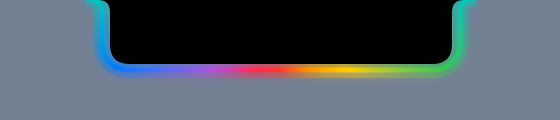
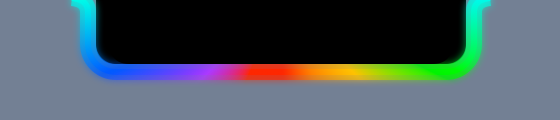
Wrap the ring around the whole notch and add saturation and brightness
The ring's sides sat inside the notch's edges, where the camera housing hid
them, so only the bottom showed. They now run outside the full notch width.
Settings gains Saturation and Brightness sliders; colors are adjusted in
Display P3 so the vivid end goes past plain sRGB.

Changed region(s): [[0.1214, 0.0, 0.8804, 0.7]]

diff --git a/NotchTodo.m b/NotchTodo.m
@@ -49,18 +49,20 @@ static CGPathRef CreateNotchPath(CGRect bounds, CGFloat centerX, CGFloat width, 
     return p;
 }
 
-// The notch outline grown by `gap` on every side, open at the top so it runs into the screen edge.
+// The notch outline grown by `gap` on every side: down the left side, along the bottom and up
+// the right side, with the ends flaring outward into the top edge of the screen. The sides sit
+// outside the notch's full width, since the camera housing covers everything inside it.
 static CGPathRef CreateRingPath(CGRect notch, CGFloat gap) {
     const CGFloat flare = 6, radius = 10 + gap; // close to the physical notch's own corners
     CGFloat top = CGRectGetMaxY(notch), bottom = CGRectGetMinY(notch) - gap;
     CGFloat left = CGRectGetMinX(notch) - gap, right = CGRectGetMaxX(notch) + gap;
     CGMutablePathRef p = CGPathCreateMutable();
-    CGPathMoveToPoint(p, NULL, left - 2, top + 1);
-    CGPathAddQuadCurveToPoint(p, NULL, left + flare, top, left + flare, top - flare);
-    CGPathAddArcToPoint(p, NULL, left + flare, bottom, left + flare + radius, bottom, radius);
-    CGPathAddArcToPoint(p, NULL, right - flare, bottom, right - flare, bottom + radius, radius);
-    CGPathAddLineToPoint(p, NULL, right - flare, top - flare);
-    CGPathAddQuadCurveToPoint(p, NULL, right - flare, top, right + 2, top + 1);
+    CGPathMoveToPoint(p, NULL, left - flare - 2, top + 1);
+    CGPathAddQuadCurveToPoint(p, NULL, left, top, left, top - flare);
+    CGPathAddArcToPoint(p, NULL, left, bottom, left + radius, bottom, radius);
+    CGPathAddArcToPoint(p, NULL, right, bottom, right, bottom + radius, radius);
+    CGPathAddLineToPoint(p, NULL, right, top - flare);
+    CGPathAddQuadCurveToPoint(p, NULL, right, top, right + flare + 2, top + 1);
     return p;
 }
 
@@ -106,6 +108,8 @@ static NSString *HexFromColor(NSColor *color) {
 @property (nonatomic, copy) NSString *palette;
 @property (nonatomic, copy) NSArray<NSColor *> *customColors;
 @property (nonatomic) double speed;              // 0 = slow, 1 = fast
+@property (nonatomic) double saturation;         // 0 = gray, 1 = most vivid
+@property (nonatomic) double brightness;         // 0 = dim, 1 = brightest
 @property (nonatomic) NSTimeInterval pausedUntil; // seconds since 1970; 0 when running
 @property (nonatomic, copy) void (^onChange)(void);
 @property (nonatomic, readonly) NSArray<NSColor *> *colors;
@@ -129,16 +133,35 @@ static NSString *HexFromColor(NSColor *color) {
         for (id hex in hexes) [custom addObject:ColorFromHex([hex isKindOfClass:NSString.class] ? hex : @"FFFFFF")];
         _customColors = custom;
         _speed = [d objectForKey:@"RingSpeed"] ? MAX(0, MIN(1, [d doubleForKey:@"RingSpeed"])) : 0.5;
+        _saturation = [d objectForKey:@"RingSaturation"] ? MAX(0, MIN(1, [d doubleForKey:@"RingSaturation"])) : 0.8;
+        _brightness = [d objectForKey:@"RingBrightness"] ? MAX(0, MIN(1, [d doubleForKey:@"RingBrightness"])) : 0.85;
         // Never honor a pause longer than 30 minutes, even if the saved value says otherwise.
         _pausedUntil = MIN([d doubleForKey:@"RingPausedUntil"], NSDate.date.timeIntervalSince1970 + kPauseLength);
     }
     return self;
 }
 
-- (NSArray<NSColor *> *)colors {
+- (NSArray<NSColor *> *)baseColors {
     if ([_palette isEqual:@"Custom"]) return _customColors;
     NSMutableArray *colors = [NSMutableArray array];
     for (NSString *hex in PaletteHexes(_palette)) [colors addObject:ColorFromHex(hex)];
+    return colors;
+}
+
+// The palette with saturation and brightness applied. The work happens in Display P3, so on a
+// MacBook screen the top of the saturation slider reaches colors more vivid than plain sRGB.
+- (NSArray<NSColor *> *)colors {
+    NSColorSpace *p3 = NSColorSpace.displayP3ColorSpace;
+    double satFactor = 1.6 * _saturation;          // 0.625 leaves the palette as designed
+    double brightFactor = 0.35 + 0.9 * _brightness; // ~0.72 leaves it as designed
+    NSMutableArray *colors = [NSMutableArray array];
+    for (NSColor *base in [self baseColors]) {
+        NSColor *wide = [base colorUsingColorSpace:p3] ?: base;
+        CGFloat h = 0, sat = 0, b = 0, a = 1;
+        [wide getHue:&h saturation:&sat brightness:&b alpha:&a];
+        [colors addObject:[NSColor colorWithColorSpace:p3 hue:h saturation:MIN(1, sat * satFactor)
+                                            brightness:MIN(1, b * brightFactor) alpha:1]];
+    }
     return colors;
 }
 
@@ -163,6 +186,8 @@ static NSString *HexFromColor(NSColor *color) {
     for (NSColor *c in _customColors) [hexes addObject:HexFromColor(c)];
     [d setObject:hexes forKey:@"RingCustomColors"];
     [d setDouble:_speed forKey:@"RingSpeed"];
+    [d setDouble:_saturation forKey:@"RingSaturation"];
+    [d setDouble:_brightness forKey:@"RingBrightness"];
     [d setDouble:_pausedUntil forKey:@"RingPausedUntil"];
     if (self.onChange) self.onChange();
 }
@@ -357,7 +382,8 @@ static NSString *HexFromColor(NSColor *color) {
 // A glowing ring hugging the notch. A conic gradient spins behind a ring-shaped mask, so the
 // colors travel around the notch without redrawing anything.
 @interface RingView : NSView
-- (void)setNotchRect:(NSRect)notch colors:(NSArray<NSColor *> *)colors period:(NSTimeInterval)period;
+- (void)setNotchRect:(NSRect)notch colors:(NSArray<NSColor *> *)colors period:(NSTimeInterval)period
+           intensity:(double)intensity;
 - (void)setShown:(BOOL)shown animated:(BOOL)animated;
 @end
 
@@ -395,7 +421,7 @@ static NSString *HexFromColor(NSColor *color) {
         _core = [CAShapeLayer layer];
         _core.fillColor = nil;
         _core.strokeColor = NSColor.whiteColor.CGColor;
-        _core.lineWidth = 2.5;
+        _core.lineWidth = 3;
         _core.lineJoin = kCALineJoinRound;
         [_mask addSublayer:_glow];
         [_mask addSublayer:_core];
@@ -407,14 +433,19 @@ static NSString *HexFromColor(NSColor *color) {
 
 - (NSView *)hitTest:(NSPoint)point { return nil; }
 
-- (void)setNotchRect:(NSRect)notch colors:(NSArray<NSColor *> *)colors period:(NSTimeInterval)period {
+- (void)setNotchRect:(NSRect)notch colors:(NSArray<NSColor *> *)colors period:(NSTimeInterval)period
+           intensity:(double)intensity {
     [CATransaction begin];
     [CATransaction setDisableActions:YES];
     _host.frame = self.bounds;
     _mask.frame = _host.bounds;
     _glow.frame = _mask.bounds;
     _core.frame = _mask.bounds;
-    CGPathRef path = CreateRingPath(notch, 3);
+    // Brighter also means a stronger halo around the core line.
+    _glow.strokeColor = [NSColor colorWithWhite:1 alpha:0.15 + 0.5 * intensity].CGColor;
+    _glow.shadowOpacity = 0.4 + 0.6 * intensity;
+    _core.strokeColor = [NSColor colorWithWhite:1 alpha:0.6 + 0.4 * intensity].CGColor;
+    CGPathRef path = CreateRingPath(notch, 4);
     _glow.path = path;
     _core.path = path;
     CGPathRelease(path);
@@ -558,7 +589,7 @@ static NSString *HexFromColor(NSColor *color) {
     RingSettings *_settings;
     NSPopUpButton *_palettePopup;
     NSArray<NSColorWell *> *_wells;
-    NSSlider *_speedSlider;
+    NSSlider *_speedSlider, *_saturationSlider, *_brightnessSlider;
     NSTextField *_pauseStatus;
     NSButton *_pauseButton, *_resumeButton;
 }
@@ -578,14 +609,14 @@ static NSTextField *SettingsLabel(NSString *text, CGFloat size, NSFontWeight wei
 
 - (void)build {
     const CGFloat W = 444;
-    _window = [[NSWindow alloc] initWithContentRect:NSMakeRect(0, 0, W, 364)
+    _window = [[NSWindow alloc] initWithContentRect:NSMakeRect(0, 0, W, 476)
                                           styleMask:NSWindowStyleMaskTitled | NSWindowStyleMaskClosable
                                             backing:NSBackingStoreBuffered
                                               defer:NO];
     _window.title = @"NotchTodo Settings";
     _window.releasedWhenClosed = NO;
     _window.delegate = self;
-    FlippedView *view = [[FlippedView alloc] initWithFrame:NSMakeRect(0, 0, W, 364)];
+    FlippedView *view = [[FlippedView alloc] initWithFrame:NSMakeRect(0, 0, W, 476)];
     view.wantsLayer = YES;
     _window.contentView = view;
     const CGFloat left = 24, field = 128, width = W - 2 * left;
@@ -625,21 +656,38 @@ static NSTextField *SettingsLabel(NSString *text, CGFloat size, NSFontWeight wei
     fast.alignment = NSTextAlignmentRight;
     [view addSubview:fast];
 
-    NSBox *line = [[NSBox alloc] initWithFrame:NSMakeRect(left, 236, width, 1)];
+    _saturationSlider = [self sliderRow:@"Saturation" low:@"Muted" high:@"Vivid" y:240 action:@selector(saturationChanged:) in:view];
+    _brightnessSlider = [self sliderRow:@"Brightness" low:@"Dim" high:@"Bright" y:296 action:@selector(brightnessChanged:) in:view];
+
+    NSBox *line = [[NSBox alloc] initWithFrame:NSMakeRect(left, 348, width, 1)];
     line.boxType = NSBoxSeparator;
     [view addSubview:line];
 
-    [view addSubview:SettingsLabel(@"Pause", 13, NSFontWeightRegular, NSColor.labelColor, NSMakeRect(left, 254, 90, 18))];
-    _pauseStatus = SettingsLabel(@"", 13, NSFontWeightRegular, NSColor.secondaryLabelColor, NSMakeRect(field + 2, 254, width - field, 18));
+    [view addSubview:SettingsLabel(@"Pause", 13, NSFontWeightRegular, NSColor.labelColor, NSMakeRect(left, 366, 90, 18))];
+    _pauseStatus = SettingsLabel(@"", 13, NSFontWeightRegular, NSColor.secondaryLabelColor, NSMakeRect(field + 2, 366, width - field, 18));
     [view addSubview:_pauseStatus];
     _pauseButton = [NSButton buttonWithTitle:@"Pause for 30 Minutes" target:self action:@selector(pauseClicked:)];
-    _pauseButton.frame = NSMakeRect(field - 6, 276, 176, 30);
+    _pauseButton.frame = NSMakeRect(field - 6, 388, 176, 30);
     [view addSubview:_pauseButton];
     _resumeButton = [NSButton buttonWithTitle:@"Resume Now" target:self action:@selector(resumeClicked:)];
-    _resumeButton.frame = NSMakeRect(field + 172, 276, 116, 30);
+    _resumeButton.frame = NSMakeRect(field + 172, 388, 116, 30);
     [view addSubview:_resumeButton];
     [view addSubview:SettingsLabel(@"There's no off switch. A pause always ends after 30 minutes.", 11, NSFontWeightRegular,
-                                   NSColor.tertiaryLabelColor, NSMakeRect(field + 2, 312, W - left - field - 2, 30))];
+                                   NSColor.tertiaryLabelColor, NSMakeRect(field + 2, 424, W - left - field - 2, 30))];
+}
+
+- (NSSlider *)sliderRow:(NSString *)title low:(NSString *)low high:(NSString *)high y:(CGFloat)y action:(SEL)action in:(NSView *)view {
+    const CGFloat W = NSWidth(view.bounds), left = 24, field = 128, width = W - 2 * left;
+    [view addSubview:SettingsLabel(title, 13, NSFontWeightRegular, NSColor.labelColor, NSMakeRect(left, y + 3, 100, 18))];
+    NSSlider *slider = [NSSlider sliderWithValue:0.5 minValue:0 maxValue:1 target:self action:action];
+    slider.frame = NSMakeRect(field, y, width - field + left - 4, 24);
+    slider.continuous = YES;
+    [view addSubview:slider];
+    [view addSubview:SettingsLabel(low, 11, NSFontWeightRegular, NSColor.tertiaryLabelColor, NSMakeRect(field + 2, y + 24, 80, 15))];
+    NSTextField *highLabel = SettingsLabel(high, 11, NSFontWeightRegular, NSColor.tertiaryLabelColor, NSMakeRect(W - left - 80, y + 24, 80, 15));
+    highLabel.alignment = NSTextAlignmentRight;
+    [view addSubview:highLabel];
+    return slider;
 }
 
 - (void)show {
@@ -656,6 +704,8 @@ static NSTextField *SettingsLabel(NSString *text, CGFloat size, NSFontWeight wei
     [_palettePopup selectItemWithTitle:_settings.palette];
     for (NSUInteger i = 0; i < _wells.count && i < _settings.customColors.count; i++) _wells[i].color = _settings.customColors[i];
     _speedSlider.doubleValue = _settings.speed;
+    _saturationSlider.doubleValue = _settings.saturation;
+    _brightnessSlider.doubleValue = _settings.brightness;
     if (_settings.isPaused) {
         NSString *until = [NSDateFormatter localizedStringFromDate:[NSDate dateWithTimeIntervalSince1970:_settings.pausedUntil]
                                                          dateStyle:NSDateFormatterNoStyle
@@ -684,6 +734,16 @@ static NSTextField *SettingsLabel(NSString *text, CGFloat size, NSFontWeight wei
 
 - (void)speedChanged:(NSSlider *)sender {
     _settings.speed = sender.doubleValue;
+    [_settings save];
+}
+
+- (void)saturationChanged:(NSSlider *)sender {
+    _settings.saturation = sender.doubleValue;
+    [_settings save];
+}
+
+- (void)brightnessChanged:(NSSlider *)sender {
+    _settings.brightness = sender.doubleValue;
     [_settings save];
 }
 
@@ -828,6 +888,15 @@ static NSTextField *SettingsLabel(NSString *text, CGFloat size, NSFontWeight wei
     CGContextScaleCTM(context, scale, scale);
     CGContextSetRGBFillColor(context, 0.45, 0.5, 0.58, 1); // stand-in for a wallpaper
     CGContextFillRect(context, bounds);
+    if (_hasNotch) { // stand-in for the camera housing: the full notch rect with rounded bottom corners
+        CGFloat w = NSWidth(_notchRect), h = NSHeight(_notchRect);
+        CGRect hardware = CGRectMake([self notchCenterInPanel] - w / 2, NSHeight(bounds) - h, w, h + 12);
+        CGPathRef housing = CGPathCreateWithRoundedRect(hardware, 9, 9, NULL);
+        CGContextSetRGBFillColor(context, 0, 0, 0, 1);
+        CGContextAddPath(context, housing);
+        CGContextFillPath(context);
+        CGPathRelease(housing);
+    }
     [_container displayIfNeeded];
     [_container.layer renderInContext:context];
     [[rep representationUsingType:NSBitmapImageFileTypePNG properties:@{}] writeToFile:_snapshotPath atomically:YES];
@@ -1028,7 +1097,7 @@ static NSTextField *SettingsLabel(NSString *text, CGFloat size, NSFontWeight wei
     if (!_ringView || !_ring) return;
     CGFloat w = NSWidth(_notchRect), h = NSHeight(_notchRect);
     NSRect notch = NSMakeRect([self notchCenterInPanel] - w / 2, NSHeight(_container.bounds) - h, w, h);
-    [_ringView setNotchRect:notch colors:_ring.colors period:_ring.period];
+    [_ringView setNotchRect:notch colors:_ring.colors period:_ring.period intensity:_ring.brightness];
     BOOL shown = _hasNotch && _store.openCount > 0 && !_ring.isPaused && !_isOpen;
     [_ringView setShown:shown animated:animated];
 }

diff --git a/README.md b/README.md
@@ -14,7 +14,7 @@ With tasks left, a color ring moves around the closed notch:
 - Type a task and press Return to add it. Click a task to check it off; click × to delete it.
 - Finished tasks sink to the bottom. Clear them from the ⋯ menu.
 - While any task is unchecked, a moving color ring surrounds the notch so you can't forget about it. It disappears once everything is checked off.
-- Pick the ring's colors (Rainbow, Sunset, Ocean, Aurora, Candy or your own three) and its speed in ⋯ → Settings….
+- Pick the ring's colors (Rainbow, Sunset, Ocean, Aurora, Candy or your own three), speed, saturation and brightness in ⋯ → Settings….
 - You can pause the ring for 30 minutes at a time, but there's no off switch: a pause always ends on its own.
 - Open at Login toggle in the ⋯ menu.
 - Tasks are stored locally as JSON in `~/Library/Application Support/NotchTodo/todos.json`. No account, no network.
